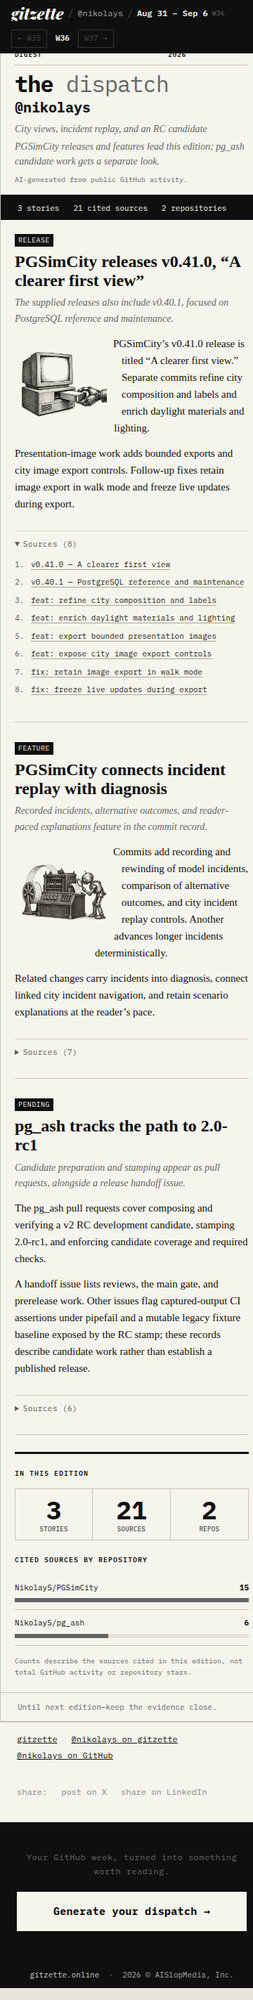
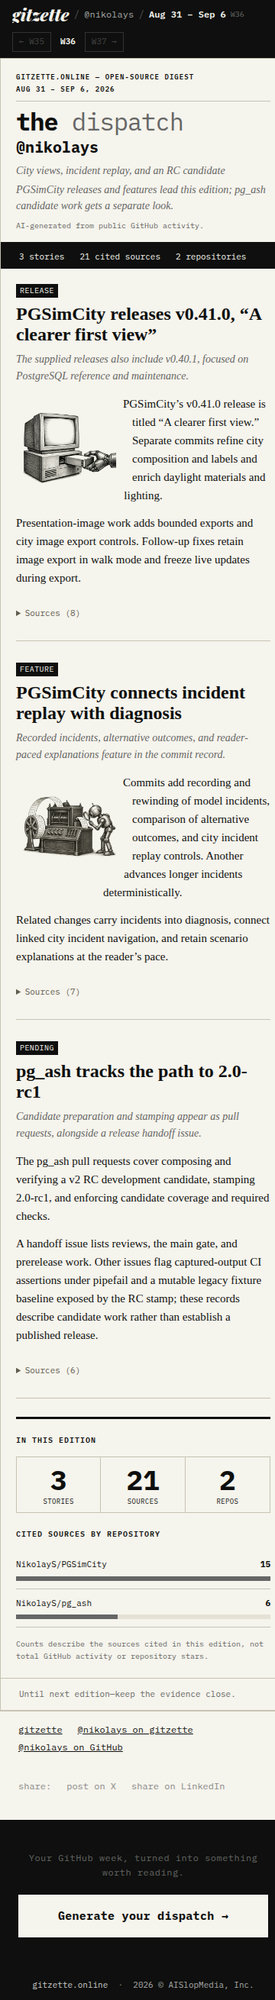
fix: preserve mobile header clearance and API citation totals

diff --git a/src/pages.ts b/src/pages.ts
@@ -298,14 +298,13 @@ async function fetchAndServeDispatch(
           <span style="font-family:'IBM Plex Mono',monospace;font-size:10px;color:#666;">${week_key.replace(/^\d{4}-/, "")}</span>
         </div>`;
     const ownerBar = isOwner
-      ? `<div style="position:fixed;top:0;left:0;right:0;z-index:999;background:#0f0f0f;padding:8px 16px;display:flex;align-items:center;justify-content:space-between;font-family:'IBM Plex Mono',monospace;font-size:12px;gap:12px;flex-wrap:wrap;">
+      ? `<div style="position:sticky;top:0;z-index:999;background:#0f0f0f;padding:8px 16px;display:flex;align-items:center;justify-content:space-between;font-family:'IBM Plex Mono',monospace;font-size:12px;gap:12px;flex-wrap:wrap;">
           ${breadcrumb}
           <div style="display:flex;gap:12px;align-items:center;flex-shrink:0;">
             ${weekNavBar(username, week_key, prevExists, nextExists)}
             <button style="background:none;border:1px solid #555;color:#aaa;font-family:'IBM Plex Mono',monospace;font-size:12px;padding:3px 10px;cursor:pointer;" onmouseover="this.style.borderColor='#f7f4ee';this.style.color='#f7f4ee'" onmouseout="this.style.borderColor='#555';this.style.color='#aaa'" onclick="regenerate()">regenerate</button>
           </div>
         </div>
-        <div style="min-height:48px;"></div>
         <script>
         ${generationRequestClient()}
         var _regenPending=false,_regenTimer=null;
@@ -330,13 +329,13 @@ async function fetchAndServeDispatch(
           },5000);
         }
         </script>`
-      : `<div style="position:fixed;top:0;left:0;right:0;z-index:999;background:#0f0f0f;padding:8px 16px;display:flex;align-items:center;justify-content:space-between;font-family:'IBM Plex Mono',monospace;font-size:12px;gap:12px;flex-wrap:wrap;">
+      : `<div style="position:sticky;top:0;z-index:999;background:#0f0f0f;padding:8px 16px;display:flex;align-items:center;justify-content:space-between;font-family:'IBM Plex Mono',monospace;font-size:12px;gap:12px;flex-wrap:wrap;">
           ${breadcrumb}
           <div style="flex-shrink:0;">
             ${weekNavBar(username, week_key, prevExists, nextExists)}
           </div>
         </div>
-        <div style="min-height:40px;"></div>`;
+        `;
 
     const out = processedHtml
       .replace("</head>", `${IMG_FIX_STYLE}</head>`)

diff --git a/src/edition-style.ts b/src/edition-style.ts
@@ -62,7 +62,7 @@ main.gitzette-edition{box-sizing:border-box;display:block;max-width:960px;margin
 .gitzette-edition .sources summary{cursor:pointer}
 .gitzette-edition .sources ol{margin:12px 0 0;padding-left:20px}
 .gitzette-edition .sources li{margin:0 0 9px;padding-left:3px}
-@media(max-width:700px){main.gitzette-edition{margin:0}.gitzette-edition .dispatch-body{grid-template-columns:minmax(0,1fr);padding:20px;gap:24px}.gitzette-edition>header{padding:18px 20px 14px}.gitzette-edition .dispatch-kicker{font-size:9px}.gitzette-edition .dispatch-sidebar{border-top:3px solid #0f0f0f;padding-top:20px}.gitzette-edition article h2{font-size:24px}}
+@media(max-width:700px){main.gitzette-edition{margin:0}.gitzette-edition .dispatch-body{grid-template-columns:minmax(0,1fr);padding:20px;gap:24px}.gitzette-edition>header{padding:18px 20px 14px}.gitzette-edition .dispatch-kicker{font-size:9px;flex-direction:column;gap:4px}.gitzette-edition .dispatch-sidebar{border-top:3px solid #0f0f0f;padding-top:20px}.gitzette-edition article h2{font-size:24px}}
 @media print{.gitzette-edition details.sources{display:block}.gitzette-edition details.sources>*{display:block}.gitzette-edition details.sources::details-content{display:block;content-visibility:visible;height:auto}}
 `;
 
@@ -90,8 +90,10 @@ export function upgradeStructuredEdition(html: string): string {
       for (const citation of body.matchAll(/<a\b[^>]*href="([^"]+)"[^>]*>/g)) {
         try {
           const u = new URL(citation[1].replace(/&amp;/g, '&'));
-          const parts = u.pathname.split('/').filter(Boolean);
-          if (u.hostname !== 'github.com' || parts.length < 2 || sources.has(u.href)) continue;
+          let parts = u.pathname.split('/').filter(Boolean);
+          if (u.hostname === 'api.github.com' && parts[0] === 'repos') parts = parts.slice(1);
+          else if (u.hostname !== 'github.com') continue;
+          if (parts.length < 2 || sources.has(u.href)) continue;
           sources.add(u.href);
           const repo = `${parts[0]}/${parts[1]}`.toLowerCase();
           repos.set(repo, (repos.get(repo) ?? 0) + 1);

diff --git a/src/edition.test.ts b/src/edition.test.ts
@@ -201,6 +201,11 @@ describe("April broadsheet restoration", () => {
     const grouped = upgradeStructuredEdition(mixedCase);
     expect(grouped).toContain('<span>1 repositories</span>');
     expect(grouped).toContain('<span>octocat/widget</span><strong>2</strong>');
+    const apiCitation = mixedCase.replace('https://github.com/OctoCat/Widget/pull/1', 'https://api.github.com/repos/OctoCat/Widget/pulls/1');
+    const apiGrouped = upgradeStructuredEdition(apiCitation);
+    expect(apiGrouped).toContain('<span>2 cited sources</span>');
+    expect(apiGrouped).toContain('<span>1 repositories</span>');
+    expect(apiGrouped).toContain('<span>octocat/widget</span><strong>2</strong>');
     const migrated = upgradeStructuredEdition(previous);
     expect(migrated).not.toContain('max-width:1180px');
     expect(migrated).toContain('<style>body{margin:0}</style>');
